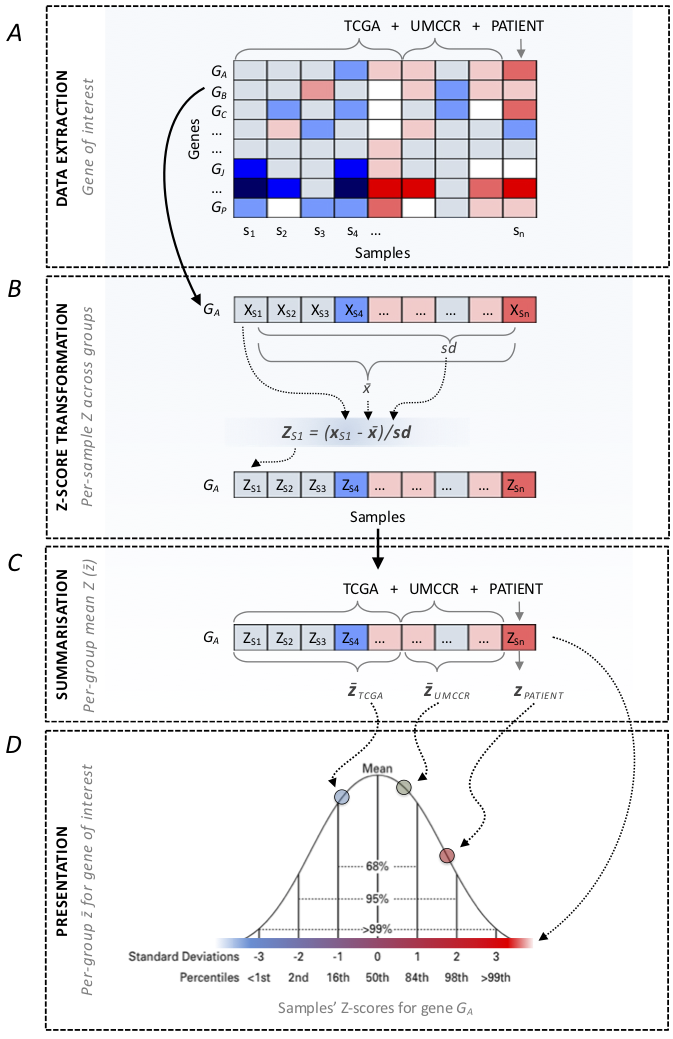
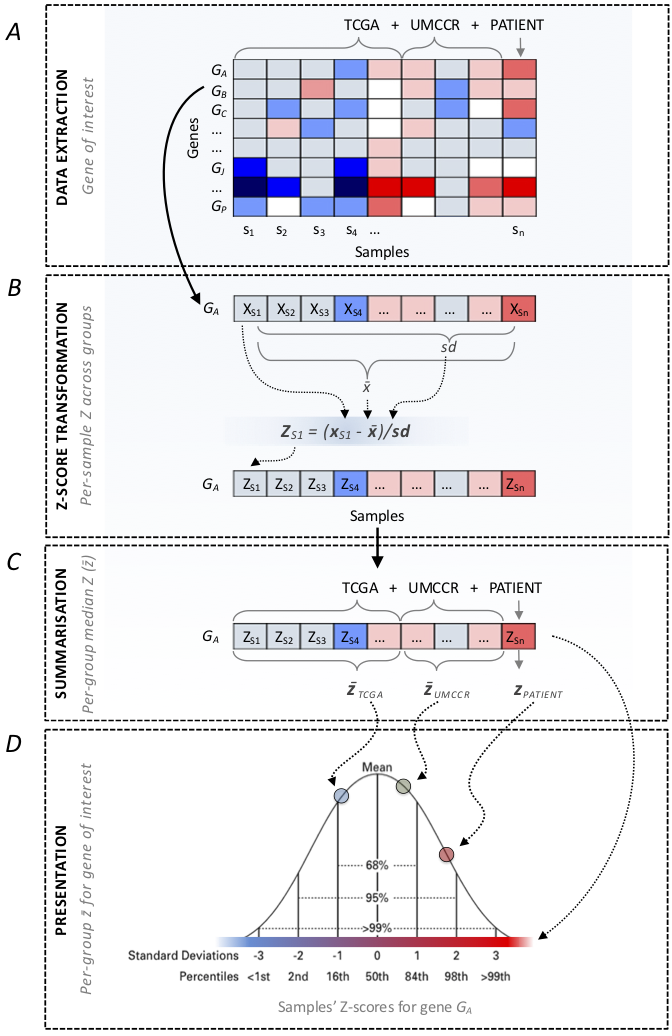
Use median instead of mean values

diff --git a/workflow.md b/workflow.md
@@ -92,7 +92,7 @@ The **read count** data (see [Input data](./README.md#input-data) section in the
 
 ([Figure 1](./img/counts_post-processing_scheme.png)F)
 
-* Consider the patient **sample** + **internal reference** (regardless of the patient sample origin) as one batch (both sets processed with the same pipeline) and corresponding [TCGA](https://tcga-data.nci.nih.gov/) dataset as another batch. The objective is to remove data variation due to technical factors.
+* Consider the patient **sample** + **internal reference** (regardless of the patient sample origin) as one batch (both sets processed with the same pipeline) and corresponding **[TCGA](https://tcga-data.nci.nih.gov/) dataset** as another batch. The objective is to remove data variation due to technical factors.
 
 #### Data scaling
 
@@ -130,8 +130,8 @@ The group-wise centering apporach is presented in [Figure 3](./img/centering_gro
 	1. patient **sample**
 	2. **external reference** set
 	3. **internal reference** set\*
-* For each gene compute **mean expression** value in individual groups ([Figure 3](./img/centering_group_wise.png)B)
-* **Center** the mean expression values for each gene in individual groups ([Figure 3](./img/centering_group_wise.png)C)
+* For each gene compute **median expression** value in individual groups ([Figure 3](./img/centering_group_wise.png)B)
+* **Center** the median expression values for each gene in individual groups ([Figure 3](./img/centering_group_wise.png)C)
 * Present patient sample **centered** expression values in the context the reference cohorts' **centered** values ([Figure 3](./img/centering_group_wise.png)D)
 
 \* used only for pancreatic cancer patients
